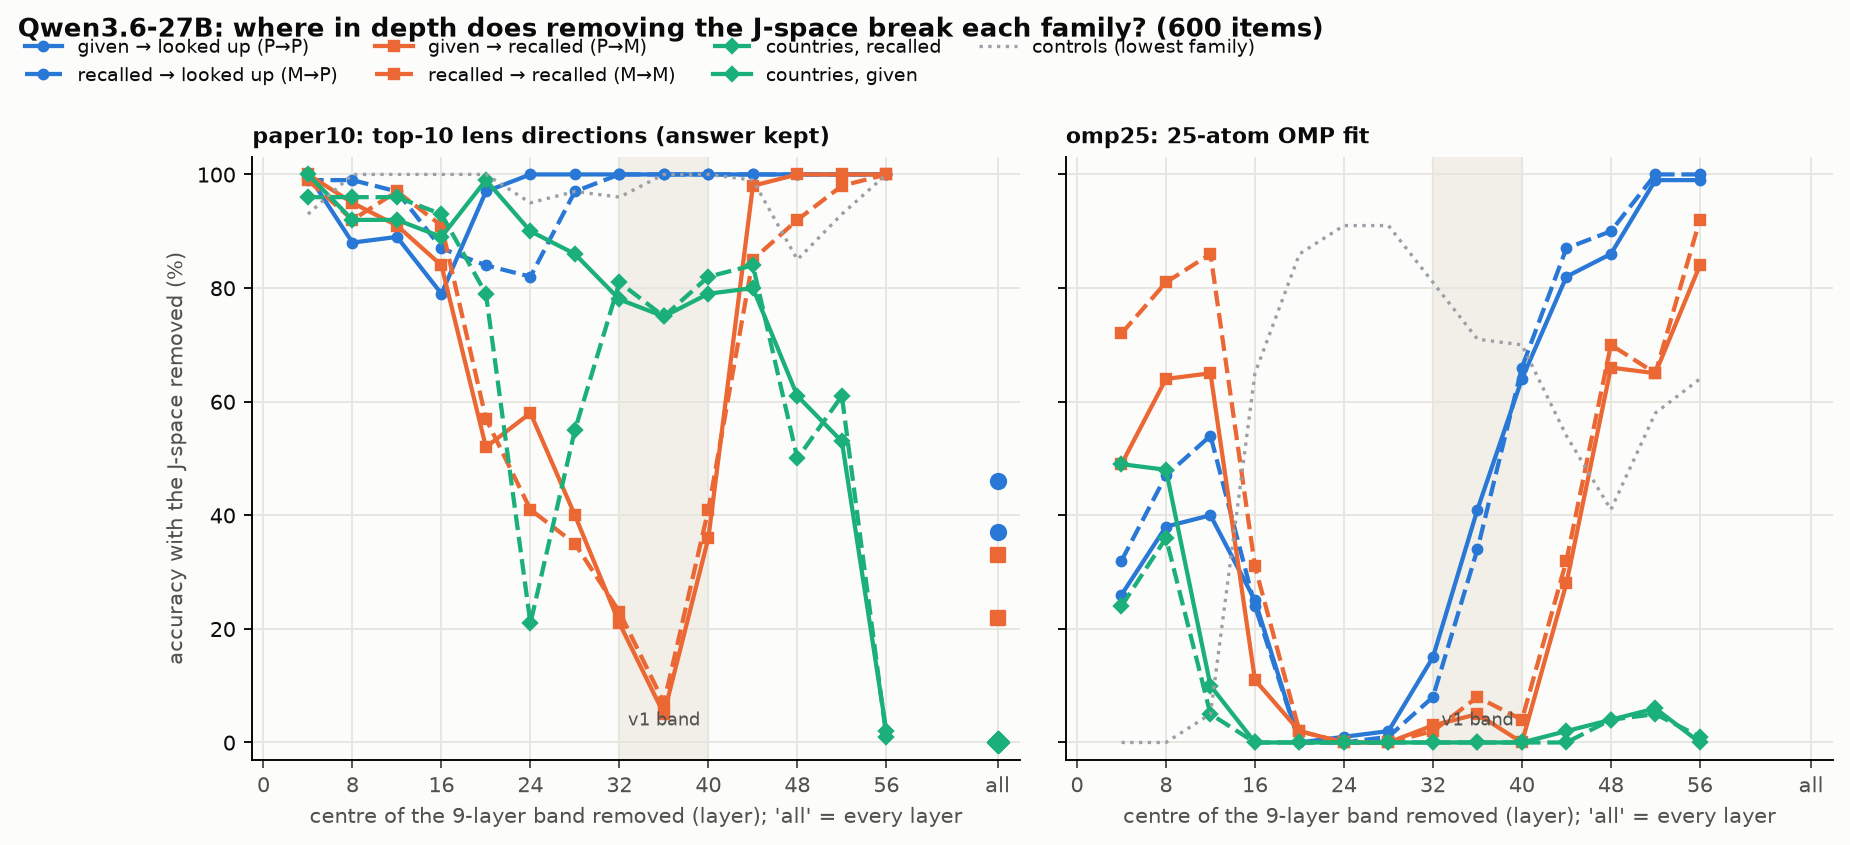
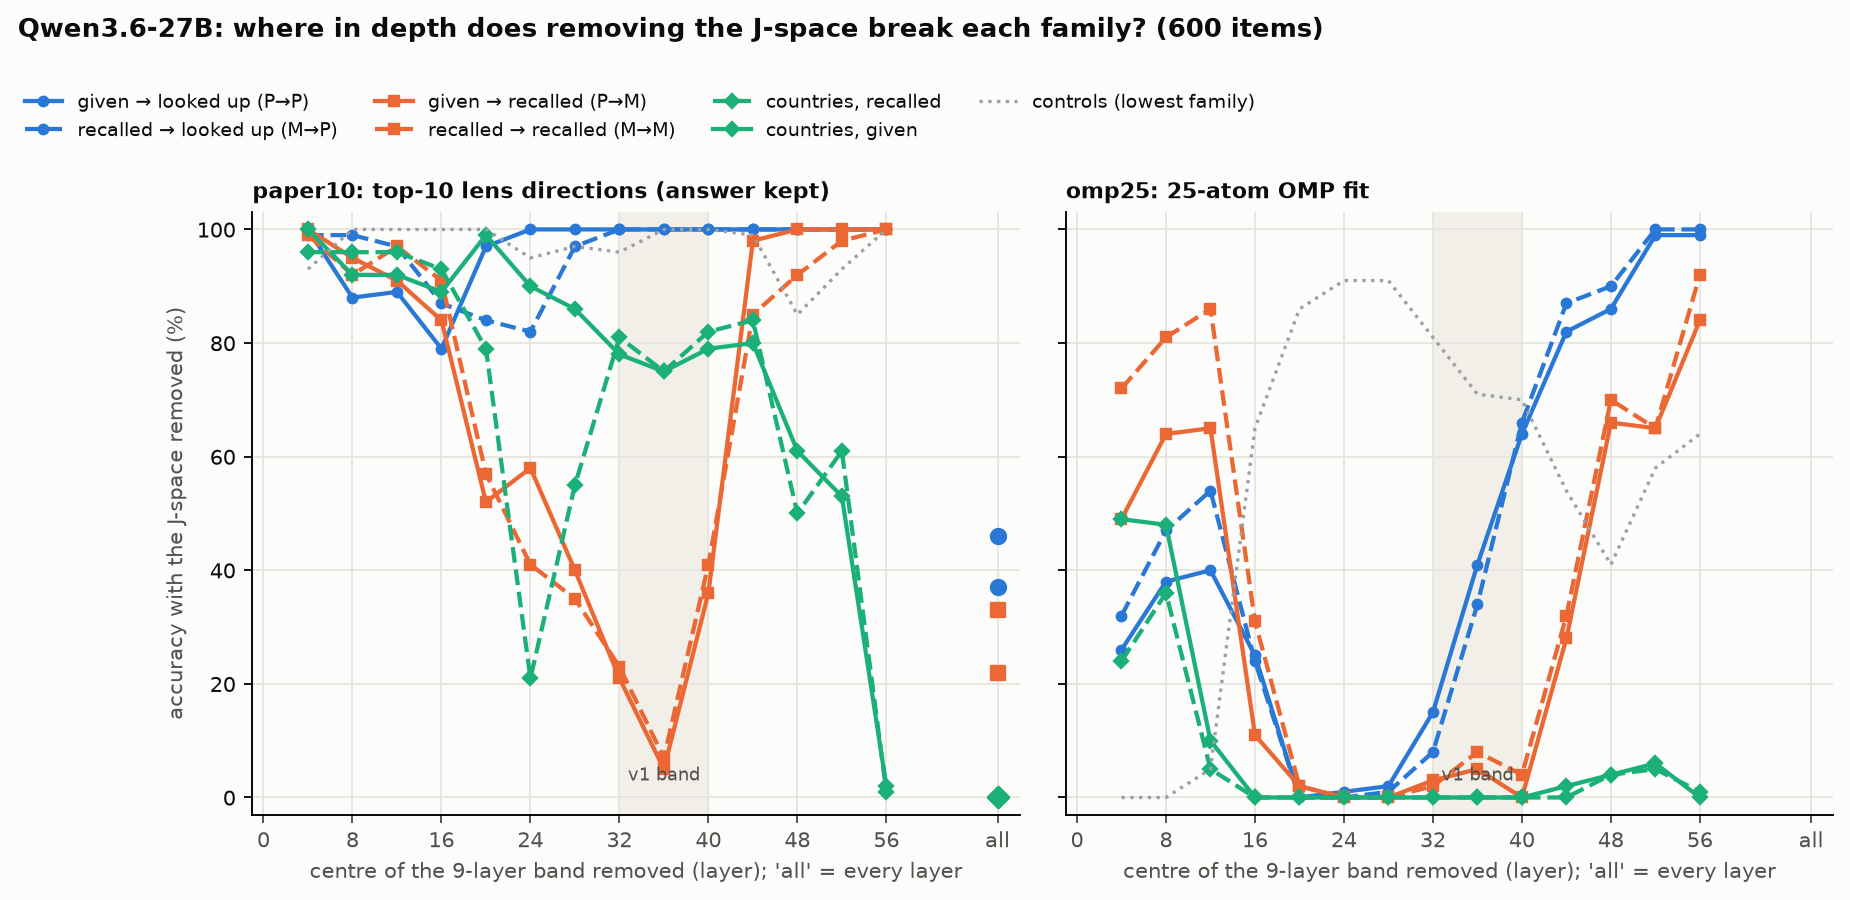
EXPERIMENTS.md: Phase 1a coarse depth sweep; depth_figure title clear of the legend

diff --git a/scripts/depth_figure.py b/scripts/depth_figure.py
@@ -70,6 +70,6 @@ axes[0].set_ylabel("accuracy with the J-space removed (%)")
 h, lab = axes[0].get_legend_handles_labels()
 fig.legend(h, lab, loc="lower left", ncol=4, frameon=False, bbox_to_anchor=(0.005, 0.95), fontsize=8)
 fig.suptitle(f"Qwen3.6-27B: where in depth does removing the J-space break each family? ({n_items} items)", x=0.01,
-             ha="left", fontsize=11, fontweight="bold", y=1.06)  # fmt: skip
+             ha="left", fontsize=11, fontweight="bold", y=1.13)  # fmt: skip
 fig.savefig(out, dpi=170, facecolor=SURF, bbox_inches="tight")
 print("ok", len(rows), "rows")

diff --git a/EXPERIMENTS.md b/EXPERIMENTS.md
@@ -59,3 +59,4 @@ date | job | question | result (n, seeds) | W&B | verdict
 2026-10-20 | bridge-cse_01EetL8PM7B9hLWZTfSi7urd-q122blayers-1020-1140 (read_write qwen35_122b_layers_v1; 122B; code dcba64f) | Does the 27B layer sweep's picture hold on the 122B? | n=60/family, cases and strengths as qwen35_122b_rw_v1, layers 12/18/24/30/42/45: RL never written at any layer (max 8% flips at layer 30, random <=2%; all six at once <=8%); BL written by strong pushes at 24-30 (up to 63%), BR up to 87%, RR up to 25%; countries 83% at 30 and 98-100% at 42 (1x); copy flips RL 88-97% at 42-45 and 0% at 12-30 | https://forge.coreweave.com/wandb/zach-ai/mats-sprint/runs/54kb4nqm | on the 122B the lookup-used recalled bridge resists the lens at every depth tested (8 layers with 36/39), while every other family is writable early: the original claim holds across depth here, unlike the 27B (early pushes wrote RL 35-61%)
 2026-10-20 | bridge-cse_01EetL8PM7B9hLWZTfSi7urd-diagv2-1020-1912 (lens_input_identity input_identity_v1; ablate_v2 v1check_tf32, v1check_fp32; 27B; code f54a0c3, results fbb0171) | Before the depth sweep: is there an early "input-token" range to treat apart, and does ablate_v2's omp25 reproduce ablate_pilot v1 (is TF32 safe)? | Input identity (150 prompts): the lens top-1 is the position's input token at 0-1% of positions at layers 0-2, 6-10% at 3-21, 5-23% at 22-62 (max 23% at 53). v1 check (1400 prompts: 8 families x n=100, whole question + step alone, layers 32/36/40): omp25 accuracy 47.4% TF32 / 46.5% fp32 vs v1 47.0%; item-level agreement with v1 89.8% TF32 / 89.6% fp32; Gaussian control 99.8% / 99.9% vs v1 99.9%; TF32 216 s vs fp32 932 s | https://forge.coreweave.com/wandb/zach-ai/mats-sprint/runs/iecagyxt | no early input-token range (Zach: drop the workspace range). omp25 flips ~10% of items between any two numerics (near-ties in the OMP pick); TF32 is no worse than fp32: keep TF32. (Correction: commit fbb0171's message says 0-10% at every layer; it is up to 23% at later layers.)
 2026-10-20 | bridge-cse_01EetL8PM7B9hLWZTfSi7urd-phase1a-1020-1939 (ablate_v2 paper10_stability_tf32, paper10_stability_fp32; 27B; code fbb0171, results 527a01e; the same job's depth_v1 was stopped by Zach's decision after ~25 min, too slow at 6.5 h, no results) | Is paper10 (top-10 lens directions projected out, the answer's clean top-10 protected) numerically stable enough to be the headline knock-out? | 1400 prompts as v1check, layers 32/36/40: TF32 and fp32 agree on 99.0% of items. paper10 accuracy (TF32): BL 100, RL 100, BR 21 (recall step alone 25), RR 41 (25), TYPO 15 (step alone 100), TRANS 8 (step alone 99), country-R 94, country-B 88; unedited 100% everywhere (items selected right) | https://forge.coreweave.com/wandb/zach-ai/mats-sprint/runs/rvwj7o2o | paper10 is stable: the headline knock-out (rule set 2026-10-20). Countries survive paper10 (omp25 26-34%): part of omp25's country damage may be removal of the answer word; whether the protected set also shields the bridge is logged per row from depth_coarse_v1 on
+2026-10-20 | bridge-cse_01EetL8PM7B9hLWZTfSi7urd-coarse-1020-2005 (ablate_v2 depth_coarse_v1; 27B; code 527a01e, results 130a7f5) | Phase 1a: where in depth does removing the J-space break each family (C1's timing confound)? | 600 items (BL BR RL RR + countries R/B, n=100 each, all right unedited), 14 nine-layer bands sliding by 4 + every layer; paper10 (top-10 lens directions, answer kept) and omp25, each with rotated-removal and rotated-dictionary controls; 95% CIs by bootstrap over bridge entities. paper10: BR/RR collapse at L16-44 (5%/7% at L32-40) and recover by L40-48; BL/RL 97-100% from L24 on but lose 11-21 points at L4-28 (BL 79% at L12-20, RL 82% at L20-28); every layer at once: BL 46, RL 37, BR 22, RR 33, countries 0; countries (word answers) dip at L20-28 (R 21%) and collapse at L52-60 (1-2%), where digit families are untouched; bridge in the protected set for 22/100 country-R items, no consistent accuracy gain from it; controls >= 85% (90% at whole depth). omp25: every family ~0% at L16-32 (controls 86-91%), its controls collapse below L16 | https://forge.coreweave.com/wandb/zach-ai/mats-sprint/runs/g0xv603s | pre-set C1 rule fails (prompt-final loss up to 21 points in a band, 63 at whole depth): C1 becomes graded and depth-specific, as the plan's fallback; the late-layer country collapse is an answer-type (word vs digit) effect to separate in 1b. UNVERIFIED
